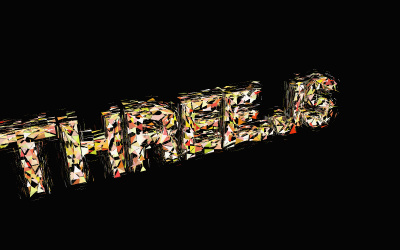
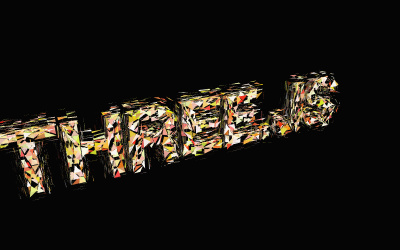
Earcut: Upgrade to version 2.2.4. (#24760)
* Earcut: Upgrade version to fix infinite loop.

* fix: redefine var parameters

* fix: this testcase had many faulty triangles

* fix: this testcase had many faulty triangles

* fix: restore the modified jpg file

* chore: test

* chore: revent microoptimizations

* chore: test

* chore: test

* fix: filter collinear points around the cuts

* fix: simplify hole elimination

* chore: format the code

* Update Earcut.js

Clean up.

diff --git a/src/extras/Earcut.js b/src/extras/Earcut.js
@@ -1,5 +1,5 @@
 /**
- * Port from https://github.com/mapbox/earcut (v2.2.2)
+ * Port from https://github.com/mapbox/earcut (v2.2.4)
  */
 
 const Earcut = {
@@ -36,11 +36,11 @@ const Earcut = {
 
 			// minX, minY and invSize are later used to transform coords into integers for z-order calculation
 			invSize = Math.max( maxX - minX, maxY - minY );
-			invSize = invSize !== 0 ? 1 / invSize : 0;
+			invSize = invSize !== 0 ? 32767 / invSize : 0;
 
 		}
 
-		earcutLinked( outerNode, triangles, dim, minX, minY, invSize );
+		earcutLinked( outerNode, triangles, dim, minX, minY, invSize, 0 );
 
 		return triangles;
 
@@ -125,9 +125,9 @@ function earcutLinked( ear, triangles, dim, minX, minY, invSize, pass ) {
 		if ( invSize ? isEarHashed( ear, minX, minY, invSize ) : isEar( ear ) ) {
 
 			// cut off the triangle
-			triangles.push( prev.i / dim );
-			triangles.push( ear.i / dim );
-			triangles.push( next.i / dim );
+			triangles.push( prev.i / dim | 0 );
+			triangles.push( ear.i / dim | 0 );
+			triangles.push( next.i / dim | 0 );
 
 			removeNode( ear );
 
@@ -182,11 +182,19 @@ function isEar( ear ) {
 	if ( area( a, b, c ) >= 0 ) return false; // reflex, can't be an ear
 
 	// now make sure we don't have other points inside the potential ear
-	let p = ear.next.next;
+	const ax = a.x, bx = b.x, cx = c.x, ay = a.y, by = b.y, cy = c.y;
 
-	while ( p !== ear.prev ) {
+	// triangle bbox; min & max are calculated like this for speed
+	const x0 = ax < bx ? ( ax < cx ? ax : cx ) : ( bx < cx ? bx : cx ),
+		y0 = ay < by ? ( ay < cy ? ay : cy ) : ( by < cy ? by : cy ),
+		x1 = ax > bx ? ( ax > cx ? ax : cx ) : ( bx > cx ? bx : cx ),
+		y1 = ay > by ? ( ay > cy ? ay : cy ) : ( by > cy ? by : cy );
 
-		if ( pointInTriangle( a.x, a.y, b.x, b.y, c.x, c.y, p.x, p.y ) &&
+	let p = c.next;
+	while ( p !== a ) {
+
+		if ( p.x >= x0 && p.x <= x1 && p.y >= y0 && p.y <= y1 &&
+			pointInTriangle( ax, ay, bx, by, cx, cy, p.x, p.y ) &&
 			area( p.prev, p, p.next ) >= 0 ) return false;
 		p = p.next;
 
@@ -204,15 +212,17 @@ function isEarHashed( ear, minX, minY, invSize ) {
 
 	if ( area( a, b, c ) >= 0 ) return false; // reflex, can't be an ear
 
+	const ax = a.x, bx = b.x, cx = c.x, ay = a.y, by = b.y, cy = c.y;
+
 	// triangle bbox; min & max are calculated like this for speed
-	const minTX = a.x < b.x ? ( a.x < c.x ? a.x : c.x ) : ( b.x < c.x ? b.x : c.x ),
-		minTY = a.y < b.y ? ( a.y < c.y ? a.y : c.y ) : ( b.y < c.y ? b.y : c.y ),
-		maxTX = a.x > b.x ? ( a.x > c.x ? a.x : c.x ) : ( b.x > c.x ? b.x : c.x ),
-		maxTY = a.y > b.y ? ( a.y > c.y ? a.y : c.y ) : ( b.y > c.y ? b.y : c.y );
+	const x0 = ax < bx ? ( ax < cx ? ax : cx ) : ( bx < cx ? bx : cx ),
+		y0 = ay < by ? ( ay < cy ? ay : cy ) : ( by < cy ? by : cy ),
+		x1 = ax > bx ? ( ax > cx ? ax : cx ) : ( bx > cx ? bx : cx ),
+		y1 = ay > by ? ( ay > cy ? ay : cy ) : ( by > cy ? by : cy );
 
 	// z-order range for the current triangle bbox;
-	const minZ = zOrder( minTX, minTY, minX, minY, invSize ),
-		maxZ = zOrder( maxTX, maxTY, minX, minY, invSize );
+	const minZ = zOrder( x0, y0, minX, minY, invSize ),
+		maxZ = zOrder( x1, y1, minX, minY, invSize );
 
 	let p = ear.prevZ,
 		n = ear.nextZ;
@@ -220,14 +230,12 @@ function isEarHashed( ear, minX, minY, invSize ) {
 	// look for points inside the triangle in both directions
 	while ( p && p.z >= minZ && n && n.z <= maxZ ) {
 
-		if ( p !== ear.prev && p !== ear.next &&
-			pointInTriangle( a.x, a.y, b.x, b.y, c.x, c.y, p.x, p.y ) &&
-			area( p.prev, p, p.next ) >= 0 ) return false;
+		if ( p.x >= x0 && p.x <= x1 && p.y >= y0 && p.y <= y1 && p !== a && p !== c &&
+			pointInTriangle( ax, ay, bx, by, cx, cy, p.x, p.y ) && area( p.prev, p, p.next ) >= 0 ) return false;
 		p = p.prevZ;
 
-		if ( n !== ear.prev && n !== ear.next &&
-			pointInTriangle( a.x, a.y, b.x, b.y, c.x, c.y, n.x, n.y ) &&
-			area( n.prev, n, n.next ) >= 0 ) return false;
+		if ( n.x >= x0 && n.x <= x1 && n.y >= y0 && n.y <= y1 && n !== a && n !== c &&
+			pointInTriangle( ax, ay, bx, by, cx, cy, n.x, n.y ) && area( n.prev, n, n.next ) >= 0 ) return false;
 		n = n.nextZ;
 
 	}
@@ -235,9 +243,8 @@ function isEarHashed( ear, minX, minY, invSize ) {
 	// look for remaining points in decreasing z-order
 	while ( p && p.z >= minZ ) {
 
-		if ( p !== ear.prev && p !== ear.next &&
-			pointInTriangle( a.x, a.y, b.x, b.y, c.x, c.y, p.x, p.y ) &&
-			area( p.prev, p, p.next ) >= 0 ) return false;
+		if ( p.x >= x0 && p.x <= x1 && p.y >= y0 && p.y <= y1 && p !== a && p !== c &&
+			pointInTriangle( ax, ay, bx, by, cx, cy, p.x, p.y ) && area( p.prev, p, p.next ) >= 0 ) return false;
 		p = p.prevZ;
 
 	}
@@ -245,9 +252,8 @@ function isEarHashed( ear, minX, minY, invSize ) {
 	// look for remaining points in increasing z-order
 	while ( n && n.z <= maxZ ) {
 
-		if ( n !== ear.prev && n !== ear.next &&
-			pointInTriangle( a.x, a.y, b.x, b.y, c.x, c.y, n.x, n.y ) &&
-			area( n.prev, n, n.next ) >= 0 ) return false;
+		if ( n.x >= x0 && n.x <= x1 && n.y >= y0 && n.y <= y1 && n !== a && n !== c &&
+			pointInTriangle( ax, ay, bx, by, cx, cy, n.x, n.y ) && area( n.prev, n, n.next ) >= 0 ) return false;
 		n = n.nextZ;
 
 	}
@@ -267,9 +273,9 @@ function cureLocalIntersections( start, triangles, dim ) {
 
 		if ( ! equals( a, b ) && intersects( a, p, p.next, b ) && locallyInside( a, b ) && locallyInside( b, a ) ) {
 
-			triangles.push( a.i / dim );
-			triangles.push( p.i / dim );
-			triangles.push( b.i / dim );
+			triangles.push( a.i / dim | 0 );
+			triangles.push( p.i / dim | 0 );
+			triangles.push( b.i / dim | 0 );
 
 			// remove two nodes involved
 			removeNode( p );
@@ -307,8 +313,8 @@ function splitEarcut( start, triangles, dim, minX, minY, invSize ) {
 				c = filterPoints( c, c.next );
 
 				// run earcut on each half
-				earcutLinked( a, triangles, dim, minX, minY, invSize );
-				earcutLinked( c, triangles, dim, minX, minY, invSize );
+				earcutLinked( a, triangles, dim, minX, minY, invSize, 0 );
+				earcutLinked( c, triangles, dim, minX, minY, invSize, 0 );
 				return;
 
 			}
@@ -344,8 +350,7 @@ function eliminateHoles( data, holeIndices, outerNode, dim ) {
 	// process holes from left to right
 	for ( i = 0; i < queue.length; i ++ ) {
 
-		eliminateHole( queue[ i ], outerNode );
-		outerNode = filterPoints( outerNode, outerNode.next );
+		outerNode = eliminateHole( queue[ i ], outerNode );
 
 	}
 
@@ -362,26 +367,29 @@ function compareX( a, b ) {
 // find a bridge between vertices that connects hole with an outer ring and link it
 function eliminateHole( hole, outerNode ) {
 
-	outerNode = findHoleBridge( hole, outerNode );
-	if ( outerNode ) {
+	const bridge = findHoleBridge( hole, outerNode );
+	if ( ! bridge ) {
 
-		const b = splitPolygon( outerNode, hole );
-
-		// filter collinear points around the cuts
-		filterPoints( outerNode, outerNode.next );
-		filterPoints( b, b.next );
+		return outerNode;
 
 	}
+
+	const bridgeReverse = splitPolygon( bridge, hole );
+
+	// filter collinear points around the cuts
+	filterPoints( bridgeReverse, bridgeReverse.next );
+	return filterPoints( bridge, bridge.next );
 
 }
 
 // David Eberly's algorithm for finding a bridge between hole and outer polygon
 function findHoleBridge( hole, outerNode ) {
 
-	let p = outerNode;
-	const hx = hole.x;
-	const hy = hole.y;
-	let qx = - Infinity, m;
+	let p = outerNode,
+		qx = - Infinity,
+		m;
+
+	const hx = hole.x, hy = hole.y;
 
 	// find a segment intersected by a ray from the hole's leftmost point to the left;
 	// segment's endpoint with lesser x will be potential connection point
@@ -393,14 +401,8 @@ function findHoleBridge( hole, outerNode ) {
 			if ( x <= hx && x > qx ) {
 
 				qx = x;
-				if ( x === hx ) {
-
-					if ( hy === p.y ) return p;
-					if ( hy === p.next.y ) return p.next;
-
-				}
-
 				m = p.x < p.next.x ? p : p.next;
+				if ( x === hx ) return m; // hole touches outer segment; pick leftmost endpoint
 
 			}
 
@@ -411,8 +413,6 @@ function findHoleBridge( hole, outerNode ) {
 	} while ( p !== outerNode );
 
 	if ( ! m ) return null;
-
-	if ( hx === qx ) return m; // hole touches outer segment; pick leftmost endpoint
 
 	// look for points inside the triangle of hole point, segment intersection and endpoint;
 	// if there are no points found, we have a valid connection;
@@ -462,7 +462,7 @@ function indexCurve( start, minX, minY, invSize ) {
 	let p = start;
 	do {
 
-		if ( p.z === null ) p.z = zOrder( p.x, p.y, minX, minY, invSize );
+		if ( p.z === 0 ) p.z = zOrder( p.x, p.y, minX, minY, invSize );
 		p.prevZ = p.prev;
 		p.nextZ = p.next;
 		p = p.next;
@@ -546,8 +546,8 @@ function sortLinked( list ) {
 function zOrder( x, y, minX, minY, invSize ) {
 
 	// coords are transformed into non-negative 15-bit integer range
-	x = 32767 * ( x - minX ) * invSize;
-	y = 32767 * ( y - minY ) * invSize;
+	x = ( x - minX ) * invSize | 0;
+	y = ( y - minY ) * invSize | 0;
 
 	x = ( x | ( x << 8 ) ) & 0x00FF00FF;
 	x = ( x | ( x << 4 ) ) & 0x0F0F0F0F;
@@ -582,19 +582,19 @@ function getLeftmost( start ) {
 // check if a point lies within a convex triangle
 function pointInTriangle( ax, ay, bx, by, cx, cy, px, py ) {
 
-	return ( cx - px ) * ( ay - py ) - ( ax - px ) * ( cy - py ) >= 0 &&
-			( ax - px ) * ( by - py ) - ( bx - px ) * ( ay - py ) >= 0 &&
-			( bx - px ) * ( cy - py ) - ( cx - px ) * ( by - py ) >= 0;
+	return ( cx - px ) * ( ay - py ) >= ( ax - px ) * ( cy - py ) &&
+           ( ax - px ) * ( by - py ) >= ( bx - px ) * ( ay - py ) &&
+           ( bx - px ) * ( cy - py ) >= ( cx - px ) * ( by - py );
 
 }
 
 // check if a diagonal between two polygon nodes is valid (lies in polygon interior)
 function isValidDiagonal( a, b ) {
 
-	return a.next.i !== b.i && a.prev.i !== b.i && ! intersectsPolygon( a, b ) && // doesn't intersect other edges
-		( locallyInside( a, b ) && locallyInside( b, a ) && middleInside( a, b ) && // locally visible
-		( area( a.prev, a, b.prev ) || area( a, b.prev, b ) ) || // does not create opposite-facing sectors
-		equals( a, b ) && area( a.prev, a, a.next ) > 0 && area( b.prev, b, b.next ) > 0 ); // special zero-length case
+	return a.next.i !== b.i && a.prev.i !== b.i && ! intersectsPolygon( a, b ) && // dones't intersect other edges
+           ( locallyInside( a, b ) && locallyInside( b, a ) && middleInside( a, b ) && // locally visible
+            ( area( a.prev, a, b.prev ) || area( a, b.prev, b ) ) || // does not create opposite-facing sectors
+            equals( a, b ) && area( a.prev, a, a.next ) > 0 && area( b.prev, b, b.next ) > 0 ); // special zero-length case
 
 }
 
@@ -651,7 +651,7 @@ function intersectsPolygon( a, b ) {
 	do {
 
 		if ( p.i !== a.i && p.next.i !== a.i && p.i !== b.i && p.next.i !== b.i &&
-				intersects( p, p.next, a, b ) ) return true;
+			intersects( p, p.next, a, b ) ) return true;
 		p = p.next;
 
 	} while ( p !== a );
@@ -679,7 +679,7 @@ function middleInside( a, b ) {
 	do {
 
 		if ( ( ( p.y > py ) !== ( p.next.y > py ) ) && p.next.y !== p.y &&
-				( px < ( p.next.x - p.x ) * ( py - p.y ) / ( p.next.y - p.y ) + p.x ) )
+			( px < ( p.next.x - p.x ) * ( py - p.y ) / ( p.next.y - p.y ) + p.x ) )
 			inside = ! inside;
 		p = p.next;
 
@@ -761,7 +761,7 @@ function Node( i, x, y ) {
 	this.next = null;
 
 	// z-order curve value
-	this.z = null;
+	this.z = 0;
 
 	// previous and next nodes in z-order
 	this.prevZ = null;
